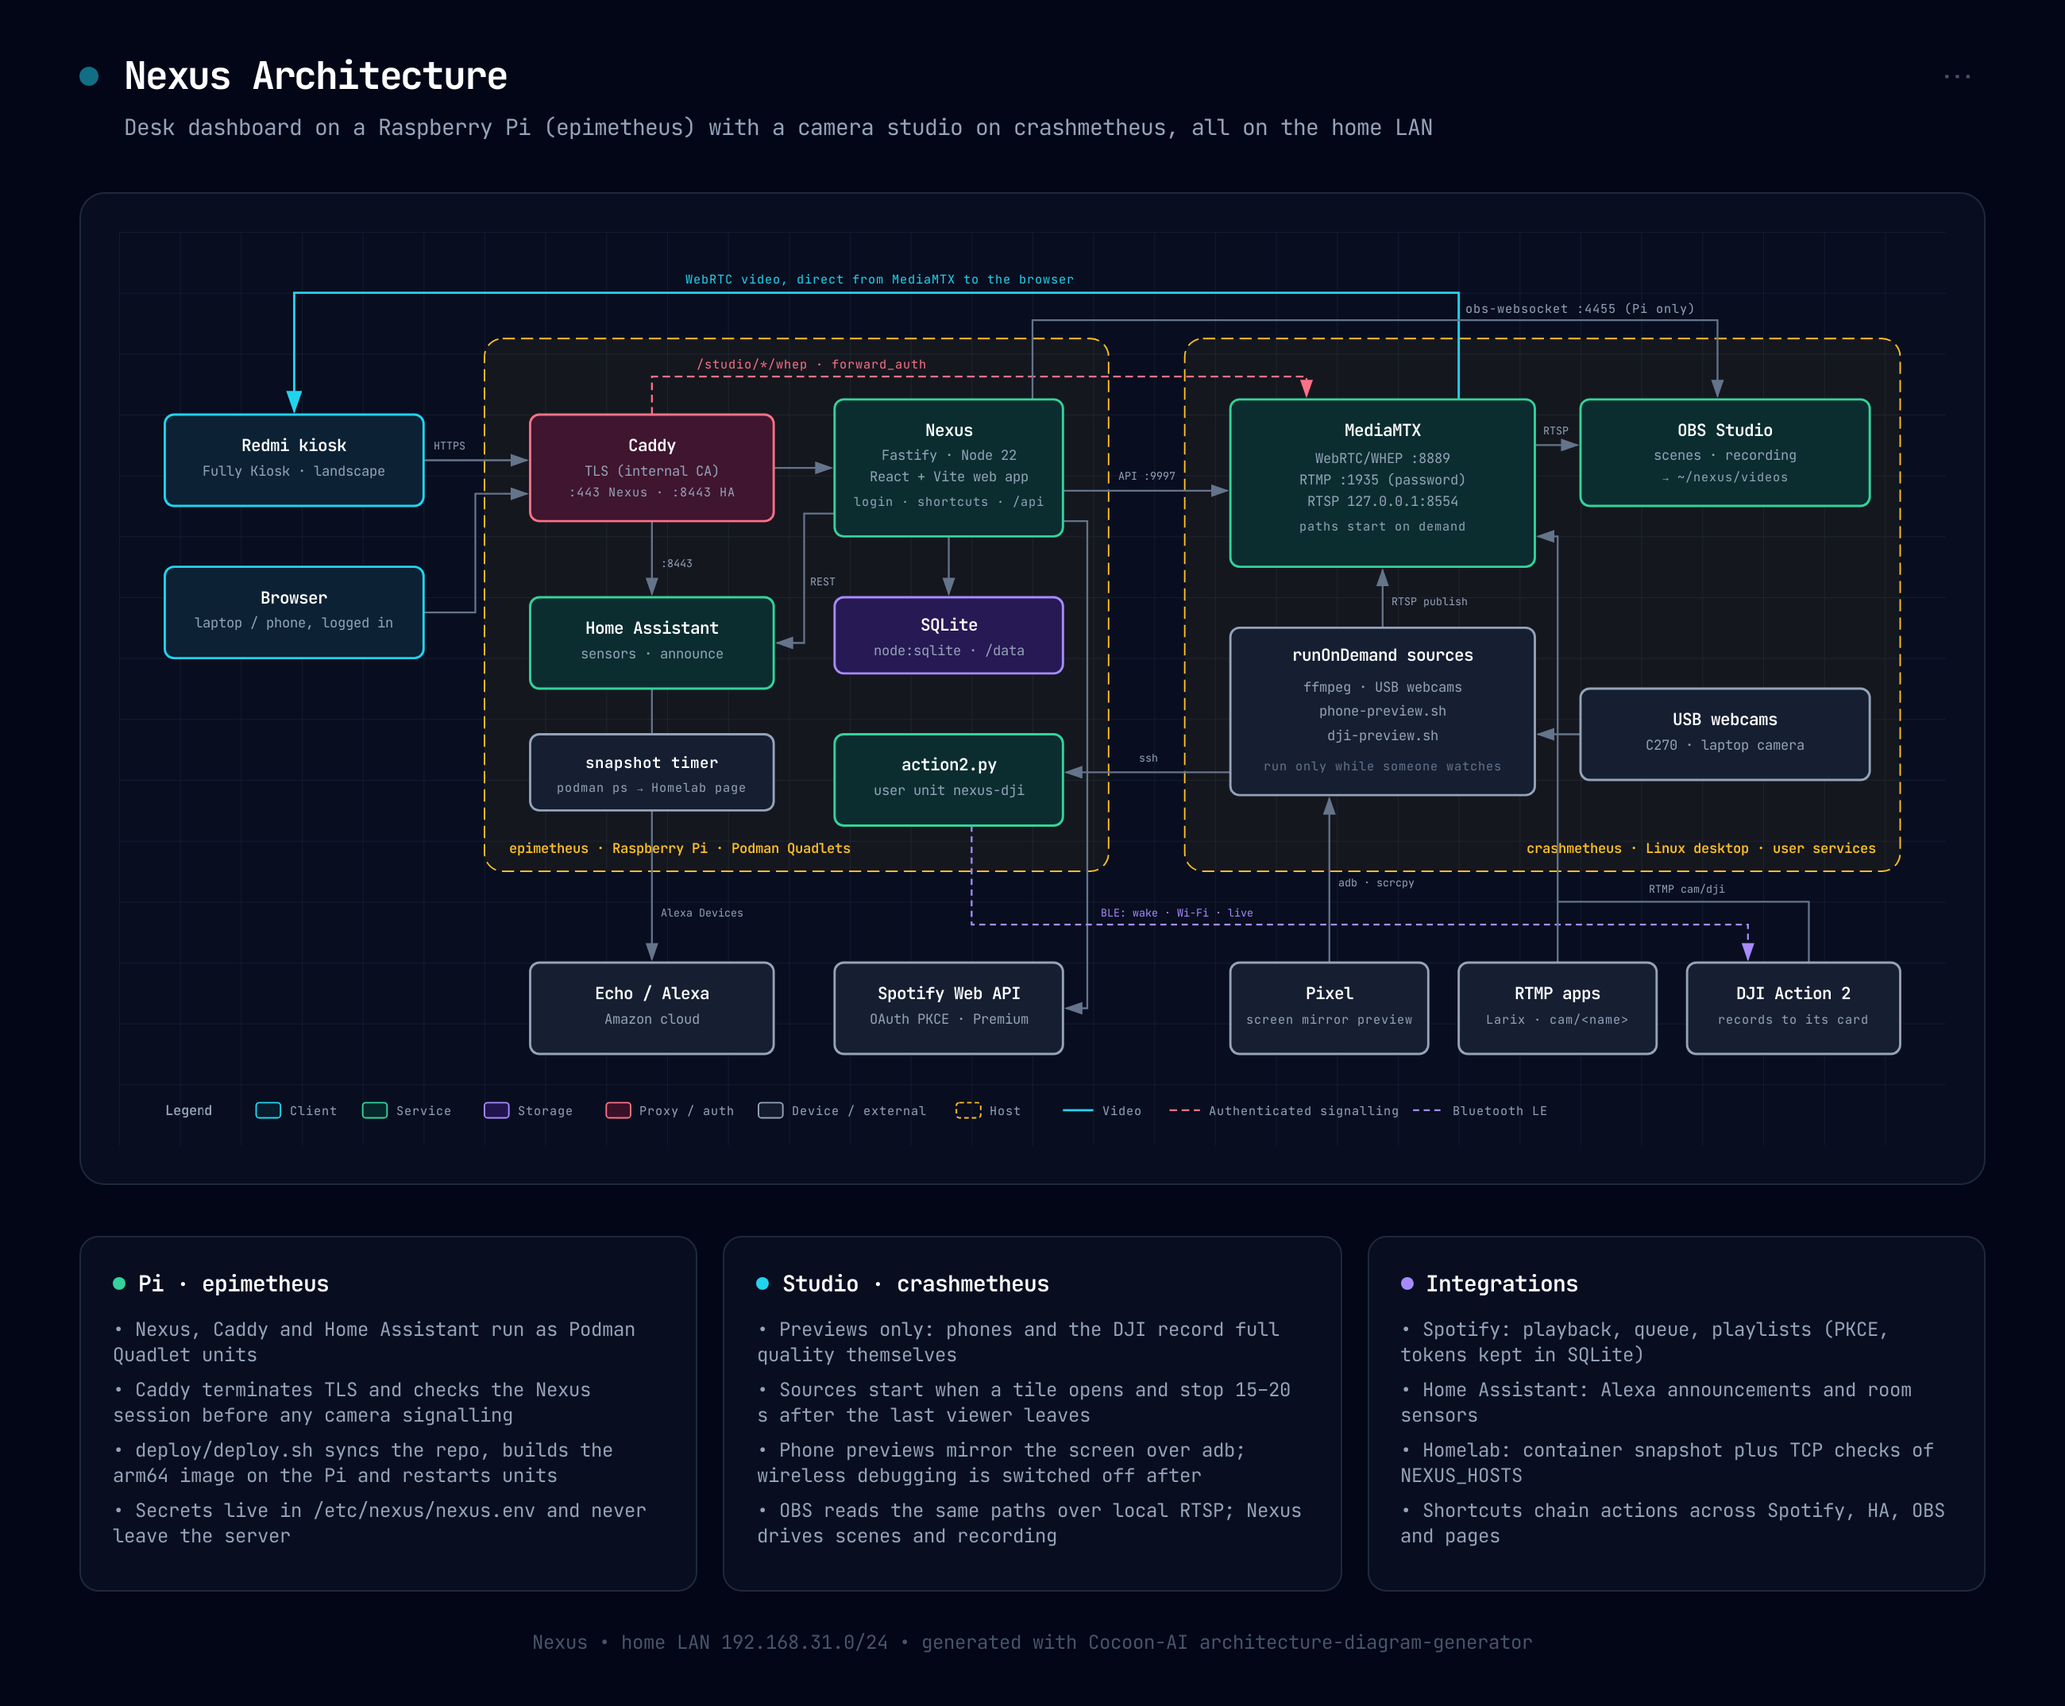
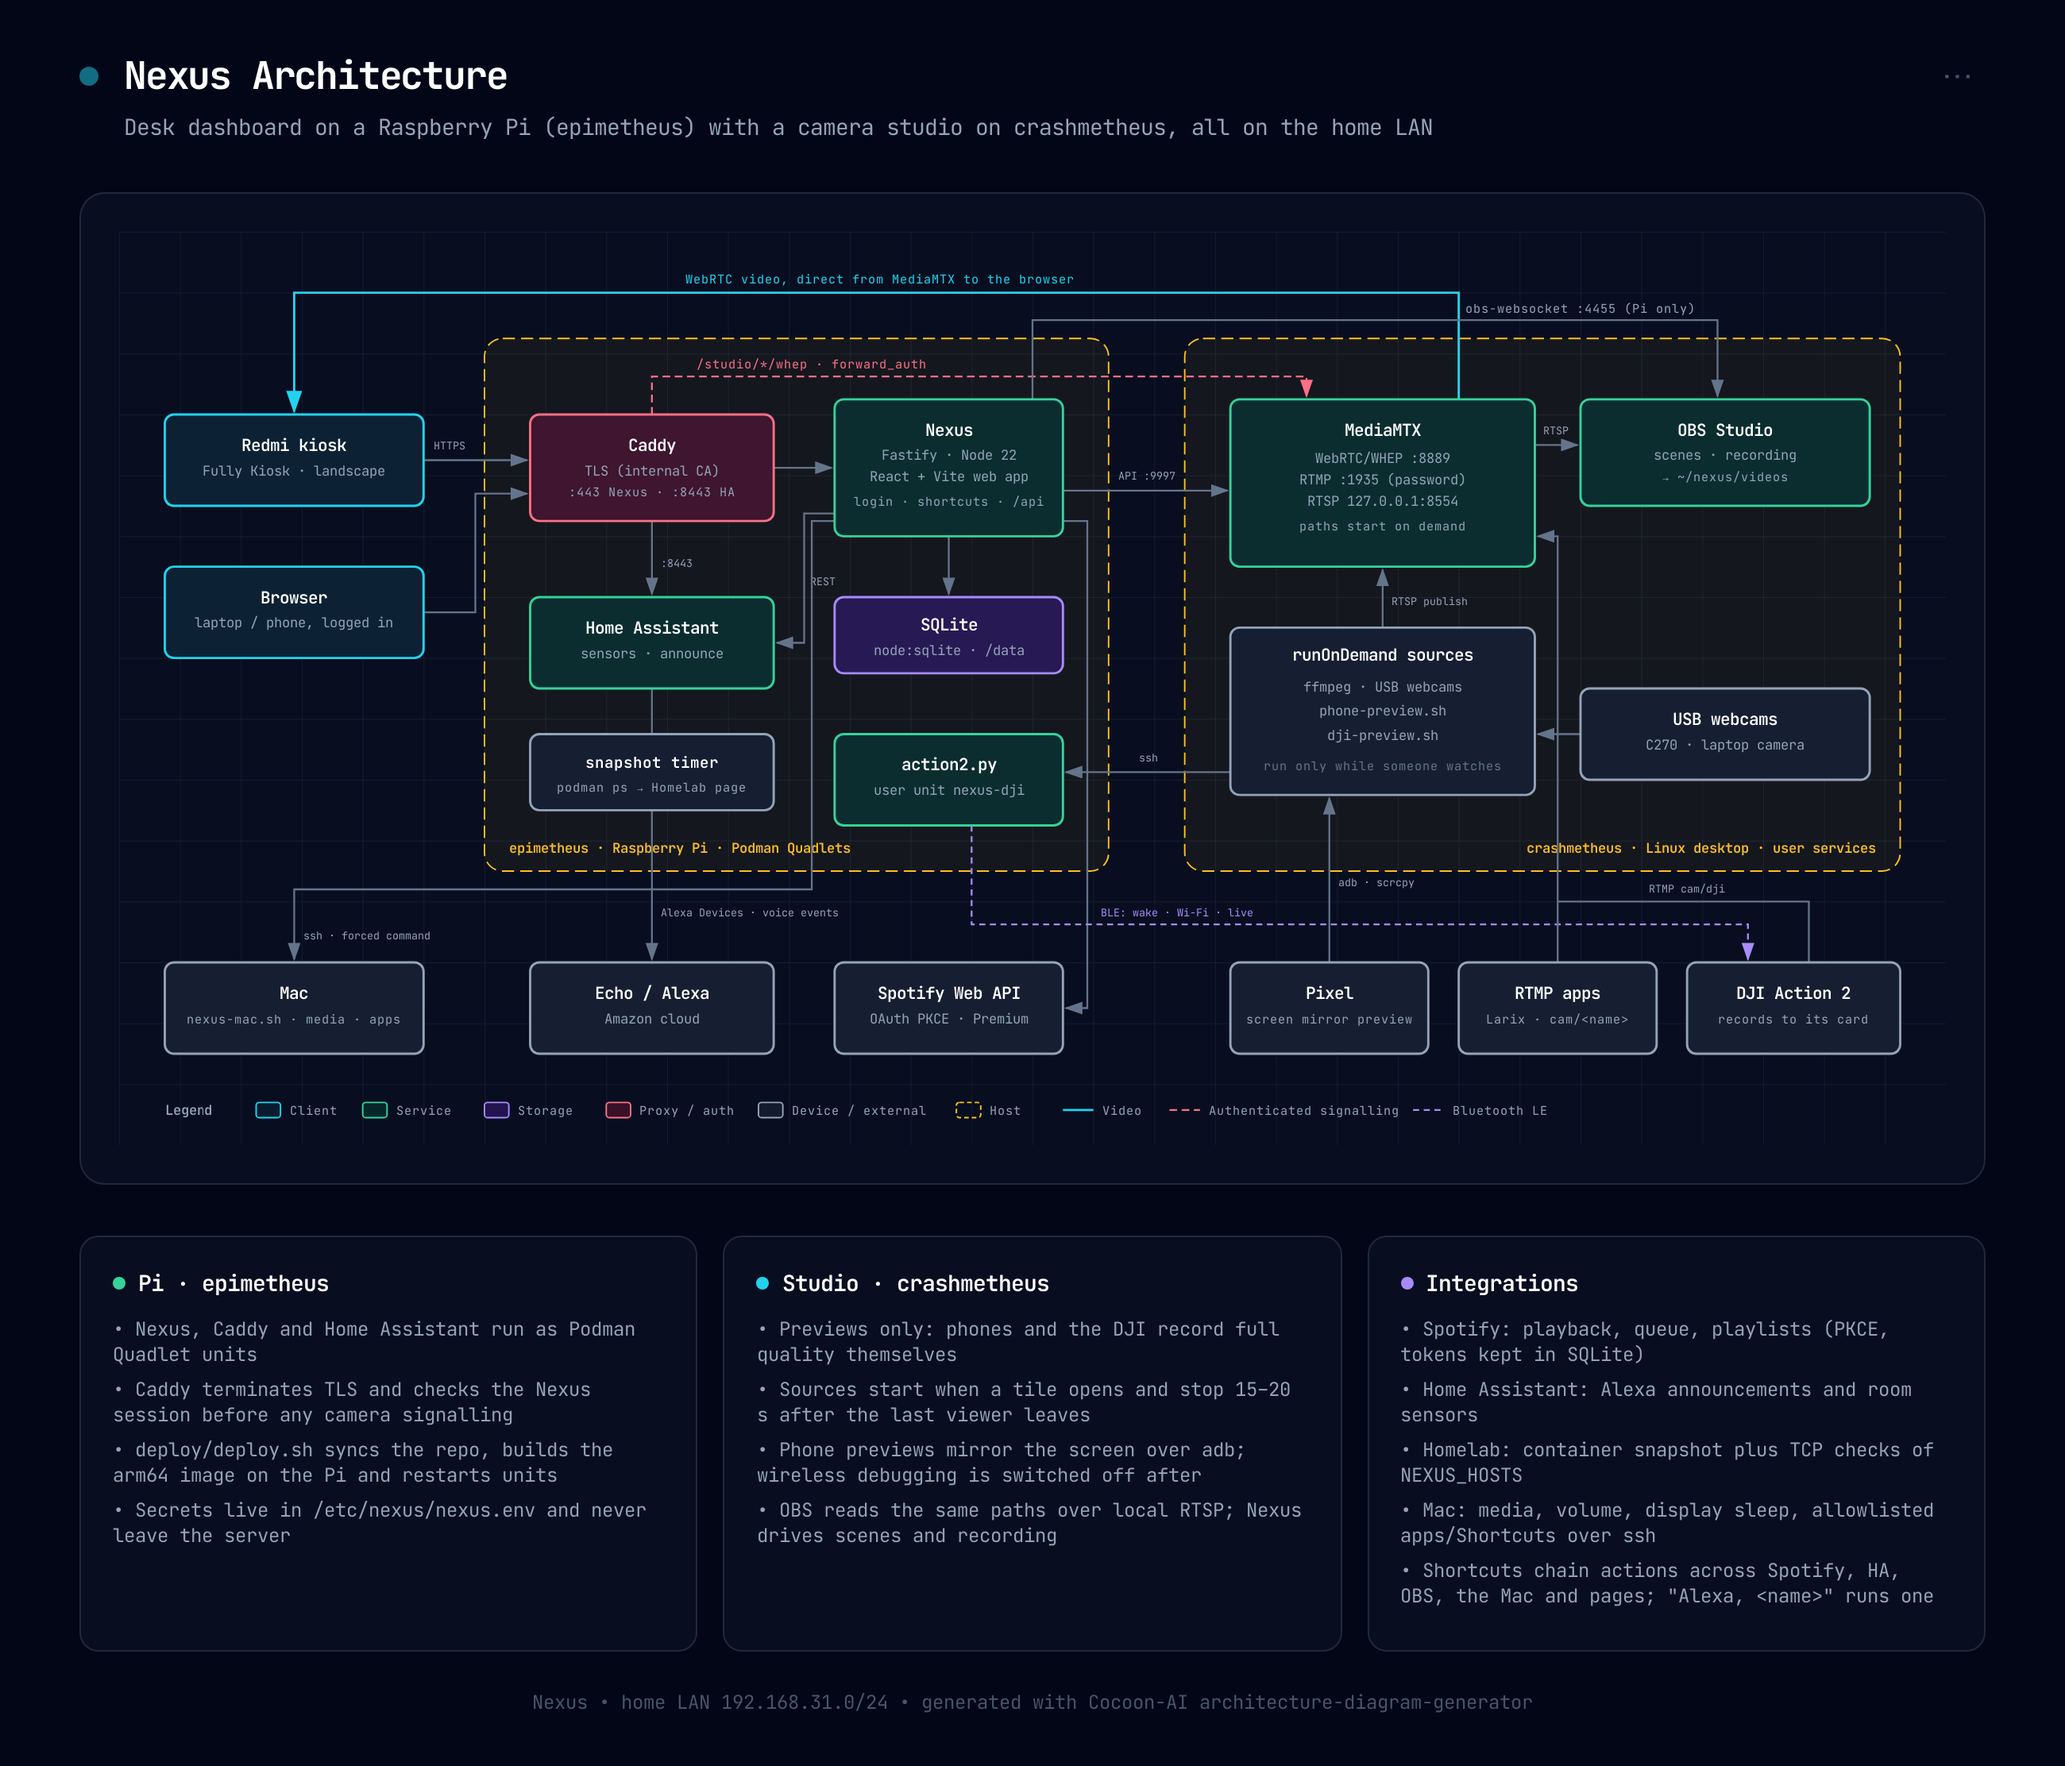
Docs: architecture diagram and README gain the Mac companion and voice events

diff --git a/docs/architecture.html b/docs/architecture.html
@@ -258,7 +258,10 @@
         <path d="M 620 190 L 636 190 L 636 510 L 622 510" fill="none" stroke="#64748b" stroke-width="1.2" marker-end="url(#arrowhead)"/>
         <!-- HA -> Echo -->
         <line x1="350" y1="300" x2="350" y2="478" stroke="#64748b" stroke-width="1.2" marker-end="url(#arrowhead)"/>
-        <text x="356" y="450" fill="#94a3b8" font-size="7">Alexa Devices</text>
+        <text x="356" y="450" fill="#94a3b8" font-size="7">Alexa Devices · voice events</text>
+        <!-- Nexus -> Mac over a forced-command ssh key -->
+        <path d="M 470 190 L 455 190 L 455 432 L 115 432 L 115 478" fill="none" stroke="#64748b" stroke-width="1.2" marker-end="url(#arrowhead)"/>
+        <text x="121" y="465" fill="#94a3b8" font-size="7">ssh · forced command</text>
         <!-- dji-preview.sh -> action2.py over ssh -->
         <line x1="730" y1="355" x2="622" y2="355" stroke="#64748b" stroke-width="1.2" marker-end="url(#arrowhead)"/>
         <text x="676" y="348" fill="#94a3b8" font-size="7" text-anchor="middle">ssh</text>
@@ -354,6 +357,10 @@
         <text x="1055" y="340" fill="#94a3b8" font-size="9" text-anchor="middle">C270 · laptop camera</text>
 
         <!-- External services and devices -->
+        <rect x="30" y="480" width="170" height="60" rx="6" fill="#0f172a"/>
+        <rect x="30" y="480" width="170" height="60" rx="6" fill="rgba(30, 41, 59, 0.5)" stroke="#94a3b8" stroke-width="1.5"/>
+        <text x="115" y="504" fill="white" font-size="11" font-weight="600" text-anchor="middle">Mac</text>
+        <text x="115" y="520" fill="#94a3b8" font-size="8" text-anchor="middle">nexus-mac.sh · media · apps</text>
         <rect x="270" y="480" width="160" height="60" rx="6" fill="#0f172a"/>
         <rect x="270" y="480" width="160" height="60" rx="6" fill="rgba(30, 41, 59, 0.5)" stroke="#94a3b8" stroke-width="1.5"/>
         <text x="350" y="504" fill="white" font-size="11" font-weight="600" text-anchor="middle">Echo / Alexa</text>
@@ -439,7 +446,8 @@
           <li>• Spotify: playback, queue, playlists (PKCE, tokens kept in SQLite)</li>
           <li>• Home Assistant: Alexa announcements and room sensors</li>
           <li>• Homelab: container snapshot plus TCP checks of NEXUS_HOSTS</li>
-          <li>• Shortcuts chain actions across Spotify, HA, OBS and pages</li>
+          <li>• Mac: media, volume, display sleep, allowlisted apps/Shortcuts over ssh</li>
+          <li>• Shortcuts chain actions across Spotify, HA, OBS, the Mac and pages; "Alexa, &lt;name&gt;" runs one</li>
         </ul>
       </div>
     </div>

diff --git a/README.md b/README.md
@@ -17,6 +17,7 @@ Interactive version: [docs/architecture.html](docs/architecture.html) (open it i
 - **Cameras:** USB webcams on crashmetheus, phones mirrored over adb (`phone-preview.sh`), anything that streams RTMP
   to `rtmp://crashmetheus/cam/<name>`, and the DJI Action 2, which the Pi starts over Bluetooth (`pi/action2.py`,
   driven by `dji-preview.sh`).
+- **Mac:** Nexus controls it over ssh with a key that can only run `deploy/mac/nexus-mac.sh` (see Mac companion).
 
 ## Environment
 
